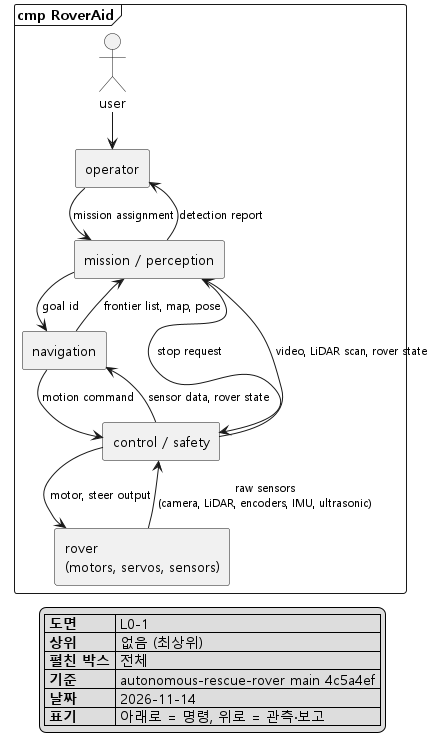
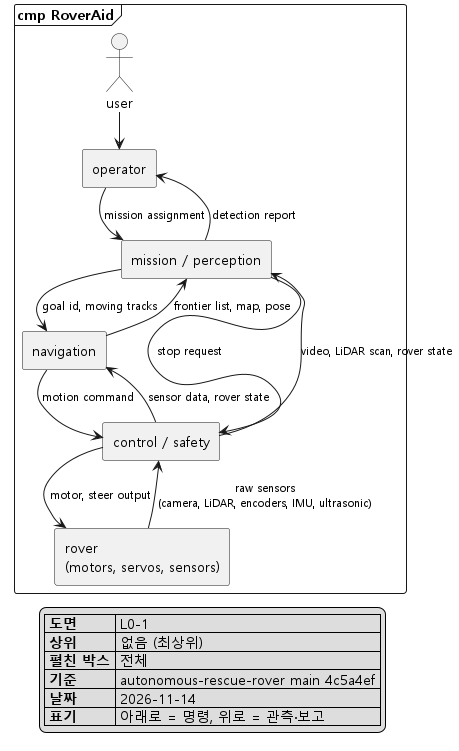
docs: moving object tracker feeds person candidates, mapping filter, costmap

Changed region(s): [[0.03, 0.0, 0.9885, 0.98]]

diff --git a/docs/architecture/README.md b/docs/architecture/README.md
@@ -32,7 +32,7 @@
 | 관계 | 아래로 (명령) | 위로 (관측 · 보고) |
 |---|---|---|
 | operator ↔ mission / perception | 임무 할당 | 발견 결과 보고 |
-| mission / perception ↔ navigation | 목표 frontier id | frontier 후보 목록 (id), 지도, pose |
+| mission / perception ↔ navigation | 목표 frontier id, 움직이는 물체 목록 (track) | frontier 후보 목록 (id), 지도, pose |
 | mission / perception → control / safety | stop 요청 (navigation을 거치지 않음) | 영상, LiDAR scan, 로버 상태 |
 | navigation ↔ control / safety | 움직임 명령 (v, ω) | 센서 데이터, 로버 상태 |
 | control / safety ↔ rover | 모터 · 조향 출력 | 센서 원본 (카메라, LiDAR, 엔코더, IMU, 초음파) |
@@ -43,14 +43,18 @@
 
 **mission / perception**
 - perception: 영상에서 사람이 있는가와 확률을 관측 (`PersonDetector`).
-- perception (만들 것): LiDAR 사람 후보 추적. 카메라는 정면만 보므로 360° LiDAR scan에서 지도에 없는(벽이 아닌) 점 군집을 SORT 같은 추적기로 프레임 간 묶고, 움직이면서 같은 track으로 이어지는 군집을 사람 후보로 본다. 후보 위치(지도 좌표)는 mission에 넘겨 그쪽으로 돌아 카메라로 확인하고, LLM 목표 선택의 입력으로도 쓴다. 이 때문에 근거리 LiDAR 점은 거리 기준으로 거르지 않는다 (11/2 결정).
+- perception (만들 것): moving object tracker. 360° LiDAR scan에서 지도에 없는(벽이 아닌) 점 군집을 SORT 같은 추적기로 프레임 간 묶어 움직이는 물체 목록(track)을 만든다. 쓰는 곳 세 군데:
+  1. 사람 후보: 움직이는 track을 사람 후보로 보고 그쪽으로 돌아 카메라로 확인. LLM 목표 선택의 입력으로도 쓴다. 정면만 보는 카메라의 사각을 메운다.
+  2. 지도 보호: mapping 입력에서 움직이는 점을 빼서, 사람이 지나간 자리에 가짜 벽이 남지 않게 한다.
+  3. 동적 장애물: planning costmap에서 움직이는 물체 주변에 여유를 크게 준다.
+  - 움직이지 않는 사람(의식 없이 누운 경우)은 잡지 못한다. 그 경우는 카메라 탐지가 주 수단. 근거리 LiDAR 점은 거리 기준으로 거르지 않는다 (11/2 결정).
 - mission: 관측을 보고 멈출지, 어디로 갈지 정한다 (`MissionController`). 현재 구현: 연속 3프레임 사람 → 후보, 목표 취소 + 정지.
 - 만들 것: navigation이 SLAM 지도에서 뽑은 frontier 후보에 id를 붙여 올리면, LLM이 추가 관측까지 보고 하나를 골라 그 id를 목표로 내린다. 목록에 없는 id는 검증에서 거른다.
 
 **navigation**
 - state estimation: 엔코더 + IMU + optical flow(2단계)를 EKF로 합쳐 pose (`robot`).
-- mapping: LiDAR scan + pose로 지도 (slam_toolbox, `laptop`).
-- planning: 지도에서 frontier 후보 추출, 목표가 정해지면 costmap 위 A* (`laptop`).
+- mapping: LiDAR scan + pose로 지도 (slam_toolbox, `laptop`). 움직이는 track의 점은 뺀다.
+- planning: 지도에서 frontier 후보 추출, 목표가 정해지면 costmap 위 A* (`laptop`). 움직이는 물체 주변은 여유를 크게.
 - path tracking: 경로 + pose로 Pure Pursuit → 움직임 명령 (v, ω) (`robot`).
 
 **control / safety**
